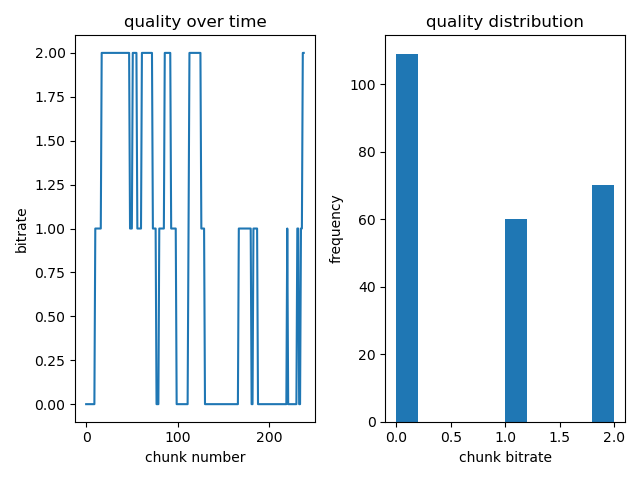
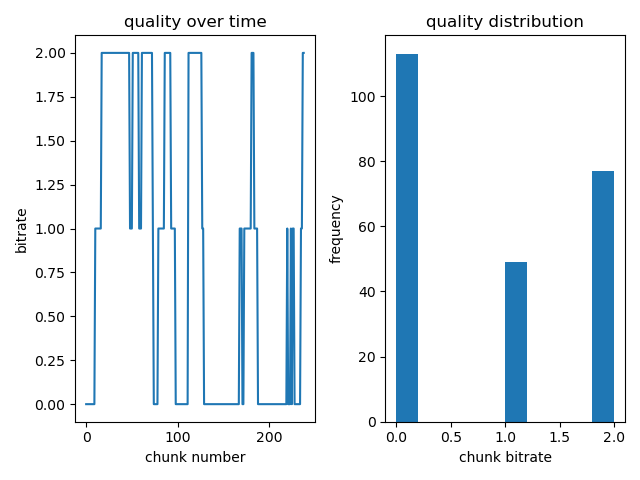
added error consideration to RobustMPC

diff --git a/student/student2.py b/student/student2.py
@@ -73,11 +73,10 @@ def print_dbg(*args):
 
 class Robust_MPC():
     def __init__(self):
-        self.reservoir = None
         self.qual_prev = 0
-        self.alpha     = 0.5 # exponential smoothing factor for reservoir
-        self.buffer_capacity_prev = 0
-        self.do_quickstart = True
+        self.throughput = None
+        self.througput_prev = 0
+        self.throughput_error = 0
 
         self.lookback_window  = 5
         self.lookahead_window = 5
@@ -104,14 +103,14 @@ class Robust_MPC():
         return len(self.throughput_hist) / avg
 
     # transform bitrate options to times based on the estimated throughput
-    def get_time_from_bitrates(self, bitrates_curr, bitrates_next, throughput):
+    def get_time_from_bitrates(self, bitrates_curr, bitrates_next):
         times = [bitrates_curr,]
         for i in range(self.lookahead_window - 1):
-            try: times.append( [(r/throughput) for r in bitrates_next[i]] )
+            try: times.append( [(r/self.throughput) for r in bitrates_next[i]] )
             except: break
         return times
 
-    def calc_MPC(self, throughput, clt_msg:ClientMessage):
+    def calc_MPC(self, clt_msg:ClientMessage):
         # caclulates differences in an array of qualitites
         # used for varience metric
         def calc_diffs(quals):
@@ -119,14 +118,16 @@ class Robust_MPC():
                 if i == 0: yield abs(self.qual_prev - quals[i])
                 else:      yield abs(quals[i] - quals[i-1])
 
+
         qual_max   = 0
         qoe_max    = -1000 # arbitrary large negitive (REALLY bad if QOE is this low)
-        times      = self.get_time_from_bitrates(clt_msg.quality_bitrates, clt_msg.upcoming_quality_bitrates, throughput)
+        times      = self.get_time_from_bitrates(clt_msg.quality_bitrates, clt_msg.upcoming_quality_bitrates)
         qual_paths = list(product( *[list(range(len(t))) for t in times] )) # all possible paths within given lookahead
         for path in qual_paths:
             # calculate metrics that factor into QOE
             quality     = sum(path)
             rebuff_time = max(0, sum([times[i][j] for (i, j) in enumerate(path)]) - self.buffer_capacity)
+            rebuff_time = rebuff_time / (1 + self.throughput_error)
             variation   = sum(calc_diffs(path))
 
             # calculate the QOE of the given path based on config metrics
@@ -145,12 +146,15 @@ class Robust_MPC():
         self.buffer_capacity = clt_msg.buffer_seconds_until_empty
                 
         # perform throughput prediction
+        self.througput_prev= self.throughput
         if clt_msg.previous_throughput: 
-            throughput = self.get_mean_throughput(clt_msg.previous_throughput)
+            self.throughput       = self.get_mean_throughput(clt_msg.previous_throughput)
+            self.throughput_error = abs(self.througput_prev- self.throughput) / self.througput_prev
         else:                           
-            throughput = 1.5
+            self.throughput      = 1.5
+            self.througput_error = 0
         # calculate bitrate (R) and (startup delay (T_s) in init phase)
-        qual_choice = self.calc_MPC(throughput, clt_msg)
+        qual_choice = self.calc_MPC(clt_msg)
         
         self.qual_prev = qual_choice
   
